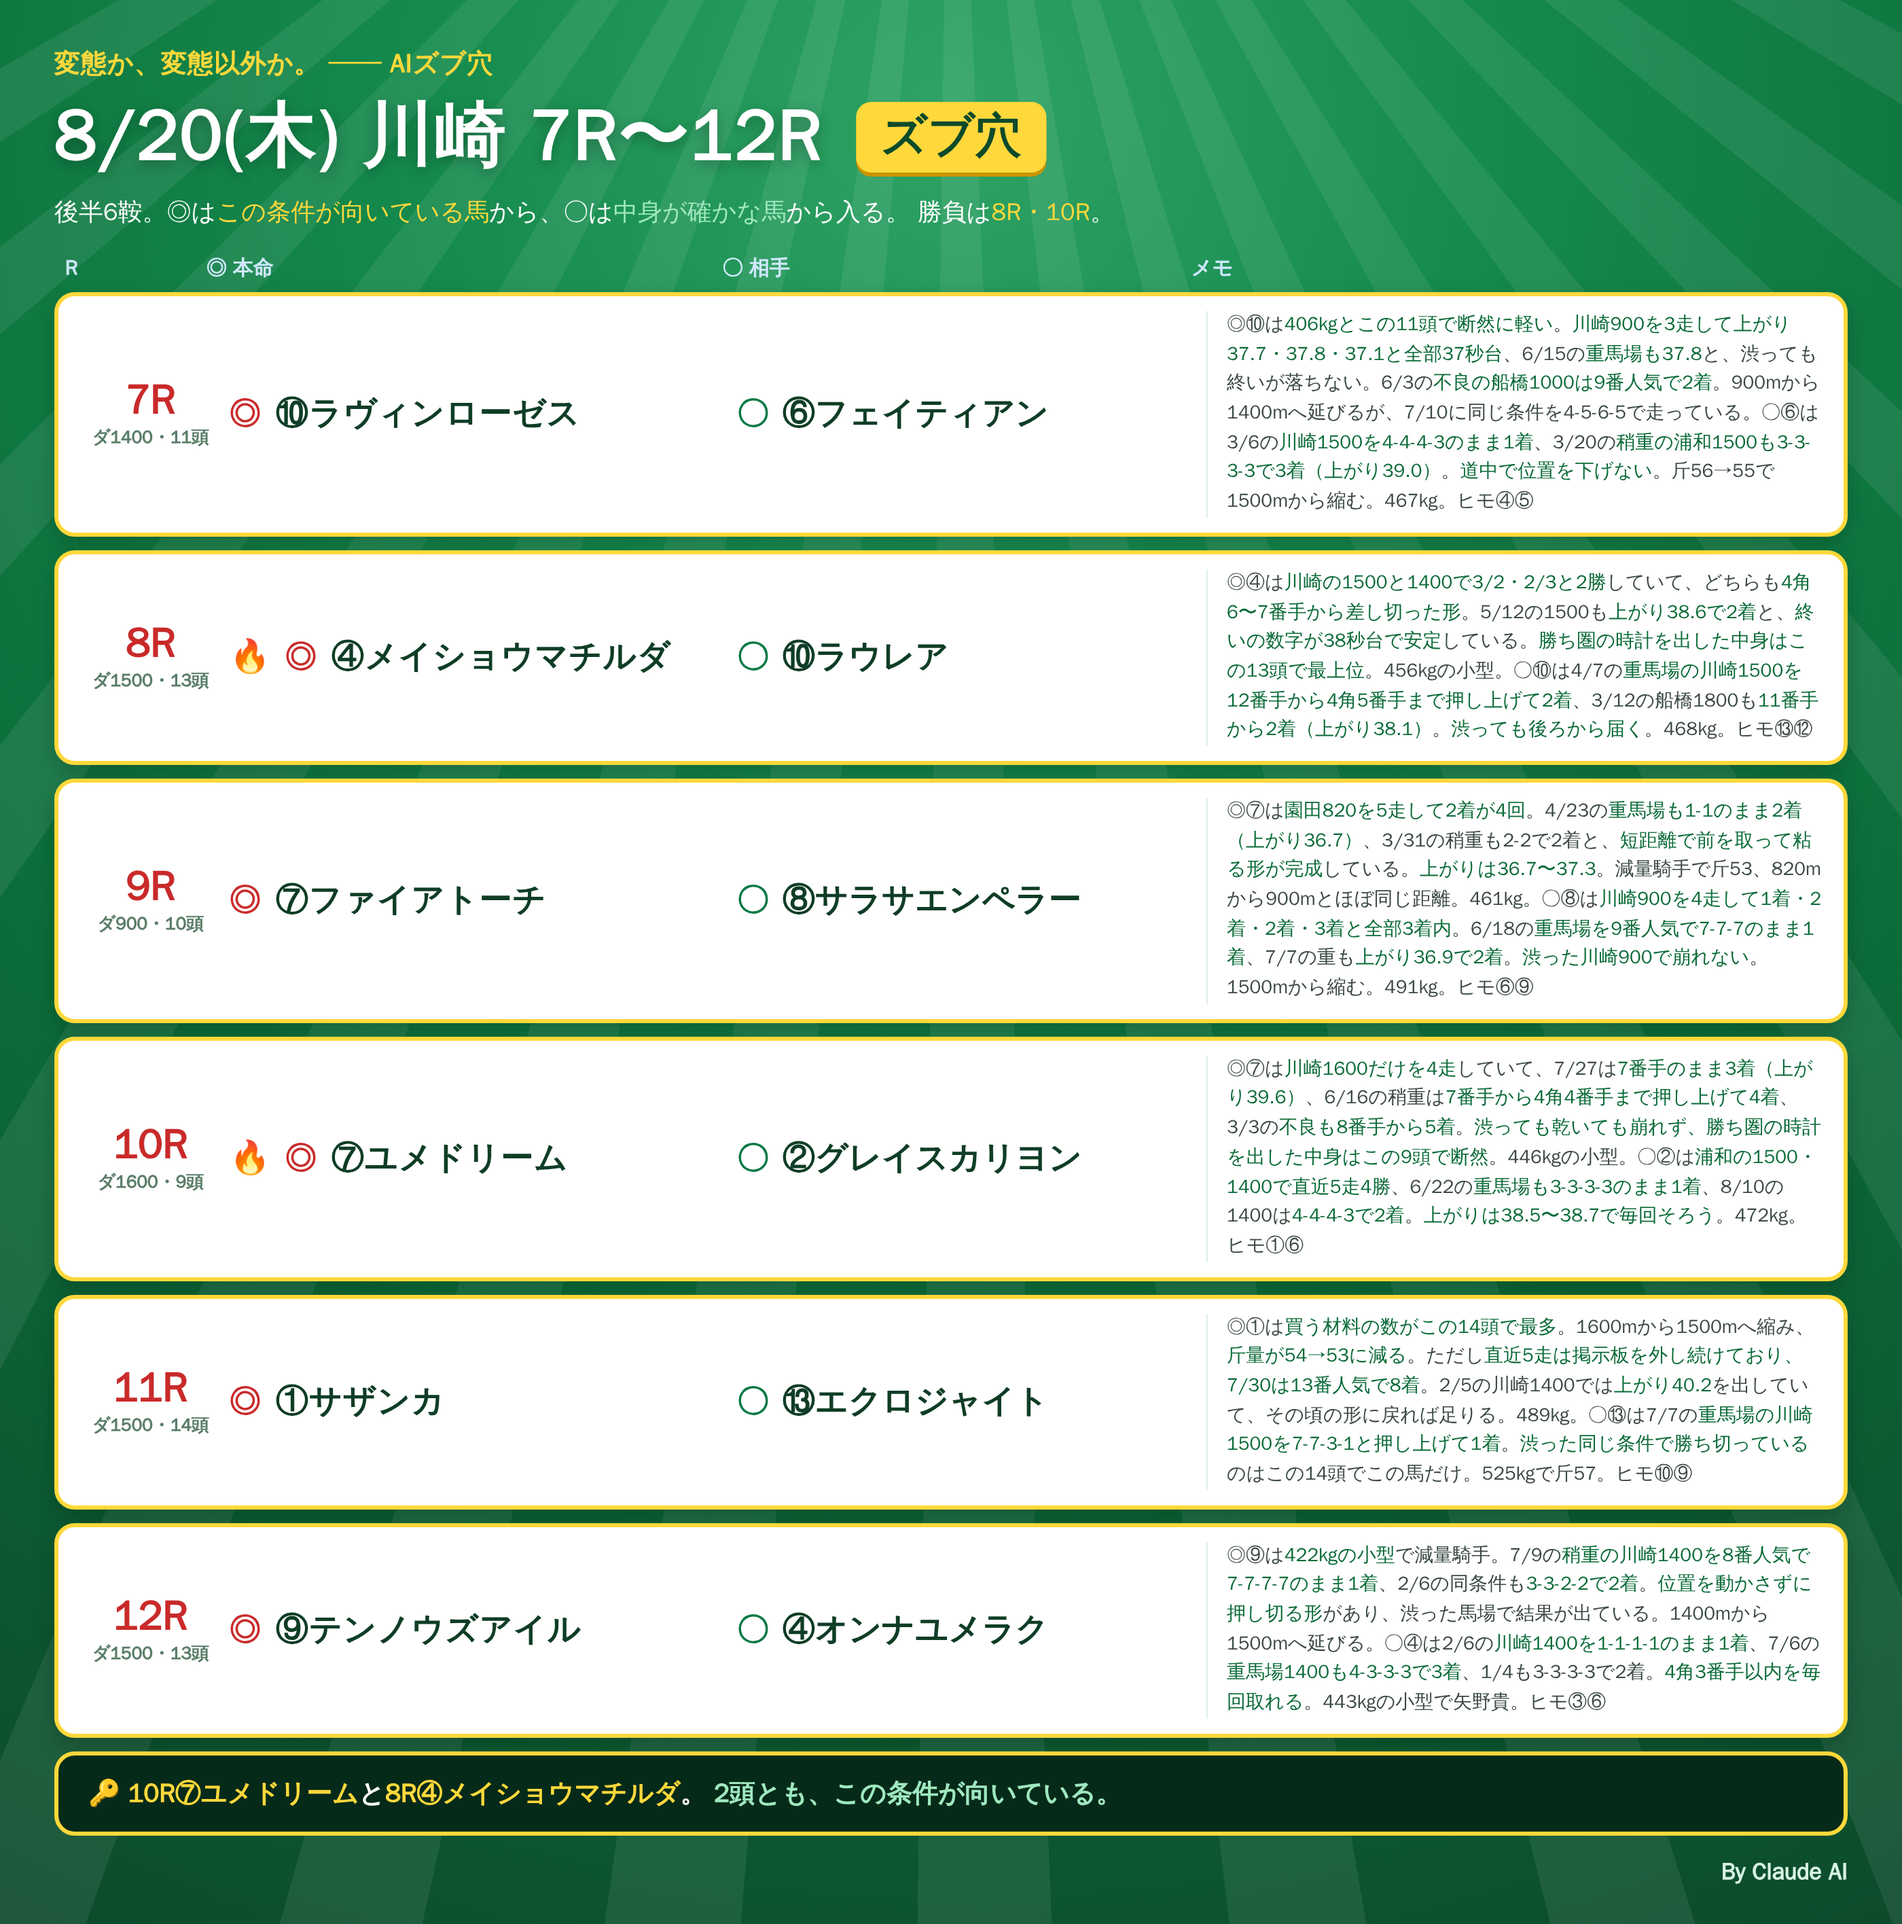
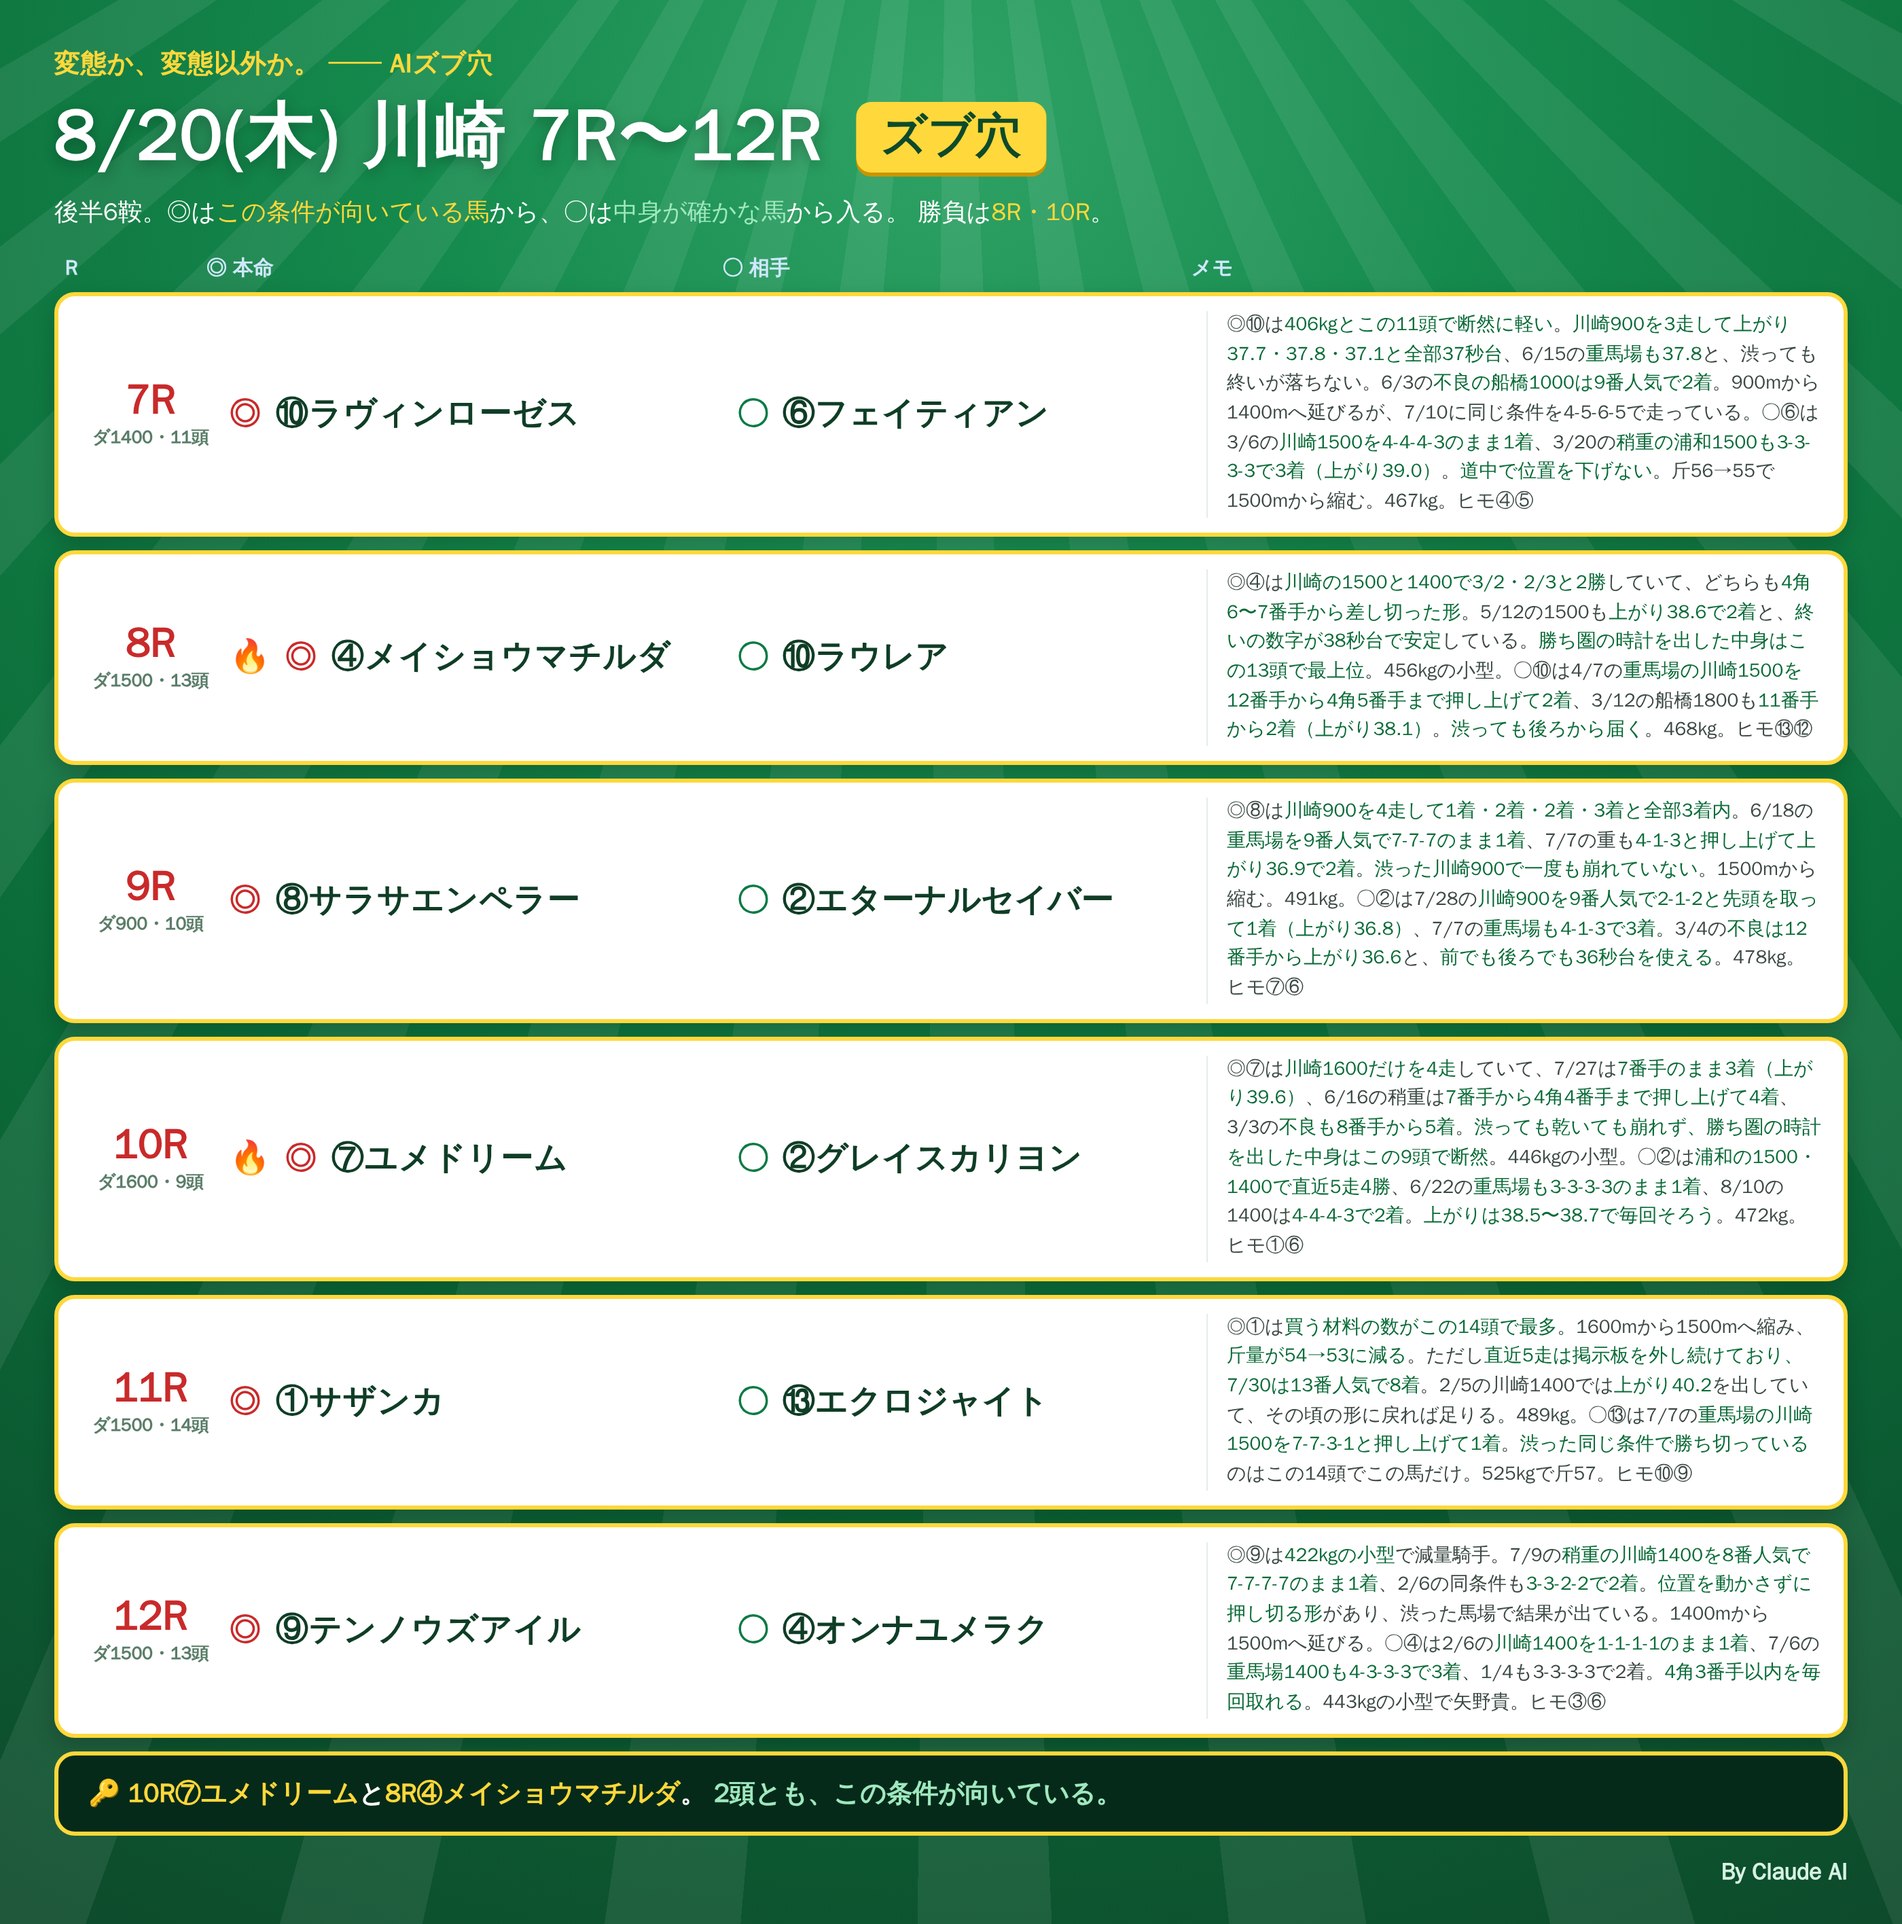
notes: 8/20 後半 9R ◎⑧サラサエンペラー ○②エターナルセイバー
⑦ファイアトーチはヒモへ。

Claude-Session: https://claude.ai/code/session_01RoHscZkr96FNaxQWvUqgEw

Changed region(s): [[0.6525, 0.404, 0.9632, 0.5282], [0.4971, 0.4661, 0.5593, 0.4972], [0.435, 0.4661, 0.4661, 0.4972]]

diff --git a/notes/live/2026-08-20/kawasaki_7_12.html b/notes/live/2026-08-20/kawasaki_7_12.html
@@ -69,9 +69,9 @@
 
   <div class="row">
     <div class="rN"><div class="n">9R</div><div class="d">ダ900・10頭</div></div>
-    <div class="hm"><span class="mk">◎</span><span class="nm">⑦ファイアトーチ</span></div>
-    <div class="at"><span class="mk2">○</span><span class="nm2">⑧サラサエンペラー</span></div>
-    <div class="memo">◎⑦は<b>園田820を5走して2着が4回</b>。4/23の<b>重馬場も1-1のまま2着（上がり36.7）</b>、3/31の稍重も2-2で2着と、<b>短距離で前を取って粘る形が完成</b>している。<b>上がりは36.7〜37.3</b>。減量騎手で斤53、820mから900mとほぼ同じ距離。461kg。○⑧は<b>川崎900を4走して1着・2着・2着・3着と全部3着内</b>。6/18の<b>重馬場を9番人気で7-7-7のまま1着</b>、7/7の重も<b>上がり36.9で2着</b>。<b>渋った川崎900で崩れない</b>。1500mから縮む。491kg。ヒモ⑥⑨</div>
+    <div class="hm"><span class="mk">◎</span><span class="nm">⑧サラサエンペラー</span></div>
+    <div class="at"><span class="mk2">○</span><span class="nm2">②エターナルセイバー</span></div>
+    <div class="memo">◎⑧は<b>川崎900を4走して1着・2着・2着・3着と全部3着内</b>。6/18の<b>重馬場を9番人気で7-7-7のまま1着</b>、7/7の重も<b>4-1-3と押し上げて上がり36.9で2着</b>。<b>渋った川崎900で一度も崩れていない</b>。1500mから縮む。491kg。○②は7/28の<b>川崎900を9番人気で2-1-2と先頭を取って1着（上がり36.8）</b>、7/7の<b>重馬場も4-1-3で3着</b>。3/4の<b>不良は12番手から上がり36.6</b>と、<b>前でも後ろでも36秒台を使える</b>。478kg。ヒモ⑦⑥</div>
   </div>
 
   <div class="row">
